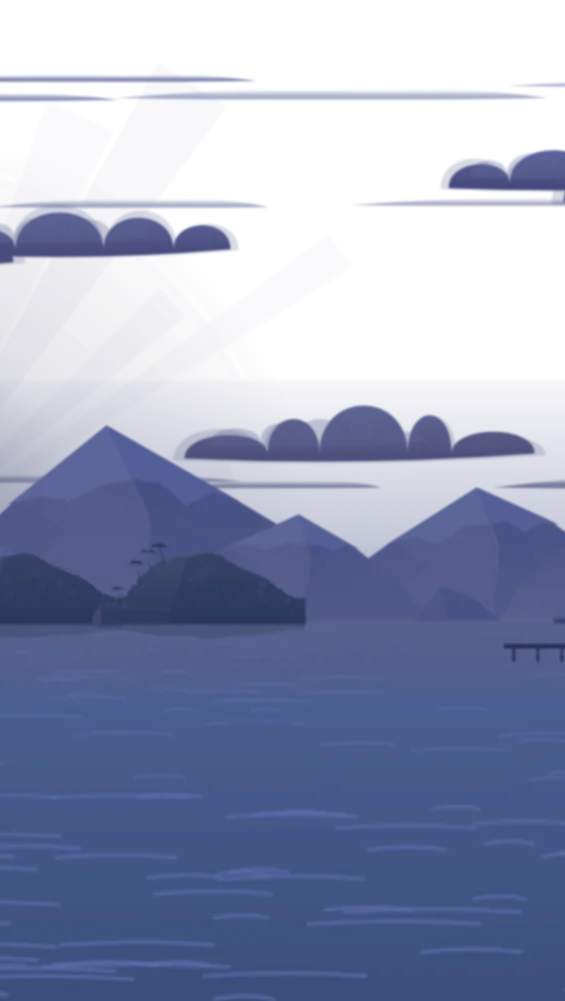
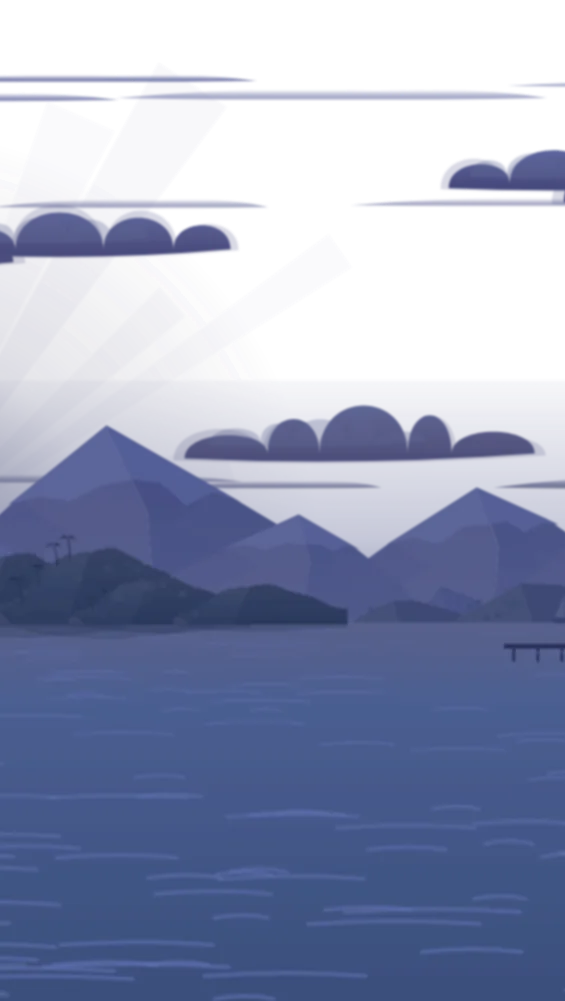
Continuous green coastline at the dusk beach
Claude-Session: https://claude.ai/code/session_01EHtmNVvLo6L45VFzzqfGpi

Changed region(s): [[0.0903, 0.5265, 0.4814, 0.6194], [0.5115, 0.5884, 0.6319, 0.6503], [0.9027, 0.5884, 0.9929, 0.6194]]

diff --git a/assets/js/nature.js b/assets/js/nature.js
@@ -1606,10 +1606,10 @@ function headland(tipX, base, len, hgt, dir, g, sunX, c) {
   }
   // 先の岩の崖（光の面と影の面）と、波が当たる白っぽい岩の裾
   const cliffW = len * .07;
-  s += `<path d="M${P([xAt(0), base + .3])}L${P([xAt(0), base - hgt * .08])}L${P([xAt(.015), base - hgt * .15])}L${P([xAt(.04), base - hgt * .28])}L${P([xAt(.07), base - hgt * .2])}L${P([xAt(0) + dir * cliffW * 1.4, base + .3])}Z" fill="${sunOnTip ? c.rockLit : c.rock}"/>`;
-  s += `<path d="M${P([xAt(.04), base - hgt * .28])}L${P([xAt(.07), base - hgt * .2])}L${P([xAt(0) + dir * cliffW * 1.4, base + .3])}L${P([xAt(.035), base + .3])}Z" fill="${c.rock}"/>`;
+  // 岩は低く、裾は木々に隠れるように（尖った三角に見えないように）
+  s += `<path d="M${P([xAt(0), base + .3])}L${P([xAt(0), base - hgt * .06])}L${P([xAt(.02), base - hgt * .13])}L${P([xAt(.05), base - hgt * .12])}L${P([xAt(0) + dir * cliffW * 1.3, base + .3])}Z" fill="${sunOnTip ? c.rockLit : c.rock}" opacity=".85"/>`;
   // 尾根のヤシ（頂の手前、先の側に寄せて）
-  for (let i = 0; i < 4; i++) { const u = .12 + i * .07 + g() * .04, xx = xAt(u); s += farPalm(xx, topAt(xx) + .4, hgt * (.24 + g() * .12), dir * -(.2 + g() * .5), c.palm, g); }
+  for (let i = 0, np = hgt > 6 ? 4 : hgt > 4 ? 2 : 0; i < np; i++) { const u = .12 + i * .07 + g() * .04, xx = xAt(u); s += farPalm(xx, topAt(xx) + .4, hgt * (.24 + g() * .12), dir * -(.2 + g() * .5), c.palm, g); }
   return s;
 }
 // 防波堤と、先の小さな灯台（灯りは museum.js がゆっくり明滅させる）
@@ -1750,13 +1750,19 @@ export function sceneCove(W, stops) {
   // 水平線の帆船と、遠くの桟橋（先に灯りがともる）
   // 手前の緑の岬：作品と作品のあいだ（立ち止まると画面の真ん中）に岬の先が来るように。どれも先を夕日の側（左）へ向け、
   // 次の岬に重ならない長さに。最初の岬の先に防波堤と小さな灯台
-  let harbor = null;
-  for (let s = 1.5, k = 0; s < stops - 1; s += 2, k++) {
-    const dir = 1, tip = at(W, FACTORS.far)(s, W * .5), bwl = W < 80 ? 4 : 7, len = Math.min(W < 80 ? 26 : 56, W * FACTORS.far * 2.1), hgt = W < 80 ? 6.5 : 10;
-    const tipX = k === 0 ? tip + dir * bwl : tip + dir * 2;
-    far += headland(tipX, hz + .1, len, hgt, dir, gM, sx, { body: '#86a092', lit: '#a9b095', low: '#6f8d88', shade: '#5f7c7d', rock: '#8a8290', rockLit: '#b9a39e', refl: '#5f8583', trees: ['#6f8c84', '#8aa18f', '#a7b096'], palm: '#5a7169' });
-    if (k === 0) { const bw = breakwater(tipX, tip, hz + .1, gM, { top: '#c9b8b0', face: '#948a96', gap: '#7d7482', tower: '#efe4da', towerShade: '#d2c7cf', red: '#bd6a5c', lamp: '#6b6170' }); far += bw.svg; harbor = bw.light; }
+  let harbor = null, lightSvg = '';
+  // 岬の後ろに、霞んだ緑の丘の連なり（海岸線が続いて見えるように。ところどころ切れて海と島が見える）
+  for (let x = -8 + gM() * 6; x < fw + 10; x += (12 + gM() * 20) * big) { if (gM() < .22) continue; far += hazeIsland(x, hz + .15, (16 + gM() * 22) * big, (3.2 + gM() * 3.4) * big, gM, sx, { lit: '#b3b9a6', shade: '#9aaba5', tree: '#93a49b' }); }
+  // 立ち止まる場所ごとに岬を 1 つ。大きさはまちまちで、右の岬ほど手前に重なる（左の岬の奥の裾を隠す）
+  for (let s = -.5, k = 0; s < stops; s += 1, k++) {
+    const dir = 1, tip = at(W, FACTORS.far)(s, W * .5), bwl = W < 80 ? 4 : 7, isHarbor = s === 1.5, size = isHarbor ? 1 : [.55, .8, .45, .95, .6][k % 5] * (.85 + gM() * .3);
+    const len = Math.min(W < 80 ? 26 : 56, W * FACTORS.far * 2.1) * (.6 + size * .4), hgt = (W < 80 ? 6.5 : 10) * size;
+    const tipX = isHarbor ? tip + dir * bwl : tip + dir * (gM() * 4 - 1) * big;
+    far += headland(tipX, hz + .1, len, hgt, dir, gM, sx, { body: '#86a092', lit: '#a9b095', low: '#6f8d88', shade: '#5f7c7d', rock: '#7f8a86', rockLit: '#a9a497', refl: '#5f8583', trees: ['#6f8c84', '#8aa18f', '#a7b096'], palm: '#5a7169' });
+    if (isHarbor) { const bw = breakwater(tipX, tip, hz + .1, gM, { top: '#c9b8b0', face: '#948a96', gap: '#7d7482', tower: '#efe4da', towerShade: '#d2c7cf', red: '#bd6a5c', lamp: '#6b6170' }); lightSvg = bw.svg; harbor = bw.light; }
   }
+  // 灯台は最後に描く（後ろの岬に隠れないように）
+  far += lightSvg;
   for (let k = 0; k < 3; k++) far += sailboat(R(fw * .1, fw * .9), hz - .2, R(2, 3.2), pick(['#8a97a8', '#7a7488']));
   far += pierFar(fw * .78, hz + 3.5, Math.min(26, fw * .18), '#6f6a7a');
   far += waveLines(-5, fw + 5, hz + 1, 100, '#ffffff', Math.round(fw * 1.4));
